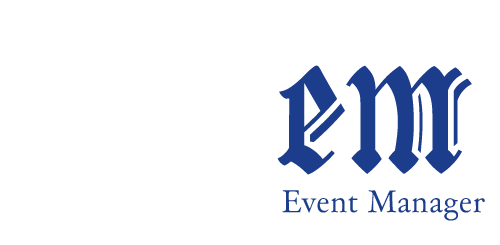
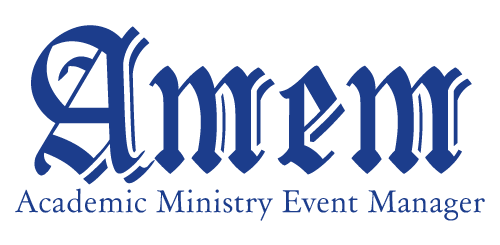
Alterações no sistema de login.

Changed region(s): [[0.06, 0.0857, 0.57, 0.7429], [0.03, 0.7714, 0.54, 0.8857]]

diff --git a/src/components/login.tsx b/src/components/login.tsx
@@ -1,18 +1,17 @@
 import React, { useState } from "react";
-import { getAuth, signInWithEmailAndPassword } from "firebase/auth";
+import { signInWithEmailAndPassword, User } from "firebase/auth";
 import { auth } from "../services/firebaseConfig";
-import { Box, Button, Input, Image } from "native-base";
+import { Box, Button, Input, Image, ScrollView, Icon, Text, Link } from "native-base";
+import { MaterialIcons } from '@expo/vector-icons';
 
-export default function login({setUser}: {setUser: any}){
+const Login = () => {
     const [email, setEmail] = useState('');
     const [senha, setSenha] = useState('');
+    const logina = auth;
+    var ano = new Date().getFullYear();
 
-    const handleLogin = () => {
-        signInWithEmailAndPassword(auth, email, senha)
-        .then((userCredential) => {
-            const user = userCredential.user;
-            setUser(user);
-        })
+    const handleLogin = async () => {
+        await signInWithEmailAndPassword(logina, email, senha)
         .catch((error) => {
             const errorMessage = error.message;
             console.log(errorMessage);
@@ -20,11 +19,17 @@ export default function login({setUser}: {setUser: any}){
     };
 
     return(
-        <Box flex={1} padding={50} backgroundColor={"#bebebe"}>
-            <Image alignSelf={"center"} source={require("./../media/AMEMLogin.png")} alt="AMEM" flex={1} />
-            <Input onChangeText={novoEmail => setEmail(novoEmail)}></Input>
-            <Input onChangeText={novaSenha => setSenha(novaSenha)}></Input>
-            <Button onPress={handleLogin}>Login</Button>
-        </Box>
+        <ScrollView contentContainerStyle={{width: "100%", height: "100%", backgroundColor: "#F2F2F2", justifyContent: "center"}}>
+            <Box padding={50} alignItems={"center"}>
+                <Image height={150} marginBottom={50} resizeMode={"contain"} source={require("./../media/AMEMLogin.png")} alt="AMEM" />
+                <Input _hover={{borderColor: "#bebebe"}} marginBottom={2} focusOutlineColor={"#bebebe"} backgroundColor={"white"} size={"xl"} w={{base: "100%", md: "30%"}} InputLeftElement={<Icon as={<MaterialIcons name="email" />} size={5} ml="3" color="muted.400" />} placeholder="Digite seu e-mail..." onChangeText={novoEmail => setEmail(novoEmail)}></Input>
+                <Input type={"password"} _hover={{borderColor: "#bebebe"}} marginBottom={25} focusOutlineColor={"#bebebe"} backgroundColor={"white"} size={"xl"} w={{base: "100%", md: "30%"}} InputLeftElement={<Icon as={<MaterialIcons name="lock" />} size={5} ml="3" color="muted.400" />} placeholder="Digite sua senha..."onChangeText={novaSenha => setSenha(novaSenha)}></Input>
+                <Button size={"lg"} marginBottom={3} w={{base: "100%", md: "30%"}} backgroundColor={"#1C3D8C"} _hover={{backgroundColor: "#043878"}} onPress={handleLogin}>Entrar</Button>
+                <Link isUnderlined={false} isExternal _text={{color: "#1C3D8C"}} marginBottom={50} href="https://www.linkedin.com/in/pedroh-silveira/" _hover={{_text: {color: "#043878"}}}>Esqueceu sua senha?</Link>
+                <Text color="#bebebe">Universidade La Salle &copy; {ano}</Text>
+            </Box>
+        </ScrollView>
     );
-};
+}
+
+export default Login;

diff --git a/App.tsx b/App.tsx
@@ -1,4 +1,4 @@
-import React, { useState } from "react";
+import React, { useEffect, useState } from "react";
 import { NativeBaseProvider } from "native-base";
 import {NavigationContainer} from '@react-navigation/native';
 import {createNativeStackNavigator} from '@react-navigation/native-stack';
@@ -7,24 +7,42 @@ import Footer from "./src/components/footer";
 import CadastrarEvento from "./src/components/cadastrarEvento";
 import ConsultarEvento from "./src/components/consultarEvento";
 import Login from "./src/components/login";
+import { onAuthStateChanged, User } from "firebase/auth";
+import { auth } from "./src/services/firebaseConfig";
 
 const Stack = createNativeStackNavigator();
+const InsideStack = createNativeStackNavigator();
+
+function InsideLayout(){
+  return (
+    <>
+      <Navbar />
+      <InsideStack.Navigator screenOptions={{headerShown: false}}>
+        <InsideStack.Screen name="Painel de Controle - AMEM" component={ConsultarEvento} />
+        <InsideStack.Screen name="Novo Evento - AMEM" component={CadastrarEvento} />
+      </InsideStack.Navigator>
+      <Footer />
+    </>
+  );
+};
 
 export default function App() {
-  const [user, setUser] = useState();
+  const [user, setUser] = useState<User | null>(null);
 
-  return !user ? <NavigationContainer>
-  <NativeBaseProvider><Login setUser={setUser} /></NativeBaseProvider>
-    </NavigationContainer> : (
-    <NavigationContainer>
-      <NativeBaseProvider>
-        <Navbar />
-        <Stack.Navigator screenOptions={{headerShown: false}}>
-          <Stack.Screen name="AMEM" component={ConsultarEvento} />
-          <Stack.Screen name="Novo Evento - AMEM" component={CadastrarEvento} />
+  useEffect(() => {
+    onAuthStateChanged(auth, (user) => {
+      console.log('user', user);
+      setUser(user);
+    });
+  }, []);
+
+  return (
+    <NativeBaseProvider>
+      <NavigationContainer>
+        <Stack.Navigator initialRouteName="Autenticação - AMEM" screenOptions={{headerShown: false}}>
+          {!user ? (<Stack.Screen name="Autenticação - AMEM" component={Login} />) : (<Stack.Screen name="AMEM" component={InsideLayout} />)}
         </Stack.Navigator>
-        <Footer />
-      </NativeBaseProvider>
-    </NavigationContainer>
+      </NavigationContainer>
+    </NativeBaseProvider>
   );
 }

diff --git a/src/components/navbar.tsx b/src/components/navbar.tsx
@@ -1,5 +1,5 @@
 import React from "react";
-import { Box, HamburgerIcon, Icon, Menu, Pressable, Text } from "native-base";
+import { Box, HamburgerIcon, Icon, Menu, Pressable, Image } from "native-base";
 import { useNavigation } from "@react-navigation/native";
 import { MaterialIcons, FontAwesome } from '@expo/vector-icons';
 
@@ -13,10 +13,10 @@ export default function Navbar(){
                             <HamburgerIcon size={5} color="white" />
                         </Pressable>;
                     }}>
-                        <Menu.Item onPress={() => navigation.navigate("AMEM" as never)}><Icon color="#000" as={FontAwesome} name="home" /> Painel de Controle</Menu.Item>
+                        <Menu.Item onPress={() => navigation.navigate("Painel de Controle - AMEM" as never)}><Icon color="#000" as={FontAwesome} name="home" /> Painel de Controle</Menu.Item>
                         <Menu.Item onPress={() => navigation.navigate("Novo Evento - AMEM" as never)}><Icon color="#000" as={FontAwesome} name="gear" /> Configurações</Menu.Item>
                     </Menu>
-                <Text bold fontSize="lg" marginLeft={5} color={"white"}>AMEM</Text>
+                    <Image height={30} width={75} marginLeft={5} resizeMode={"contain"} source={require("./../media/AMEM.png")} alt="AMEM" />
             </Box>
             <Icon as={<MaterialIcons name={"notifications"} />} size={6} color="#bebebe" />
         </Box>

diff --git a/src/components/consultarEvento.tsx b/src/components/consultarEvento.tsx
@@ -1,15 +1,10 @@
-import { Box, Icon, ScrollView, Text } from "native-base";
-import { FontAwesome } from '@expo/vector-icons';
+import { Box, ScrollView, Text } from "native-base";
 import React from "react";
 
-export default function ConsultarEvento(){
+export default function ConsultarEvento({navigation}: any){
     return(
         <ScrollView contentContainerStyle={{width:'100%'}}>
-            <Box margin={25} flexDirection={"row"} alignItems={"center"}>
-                <Icon mr={1} color="#000" as={FontAwesome} name="home" />
-                <Text>Painel de Controle</Text>
-            </Box>
-            <Box padding={50}>
+            <Box padding={50} flex={1}>
                 <Text textAlign={"left"} bold fontSize={"3xl"}>Painel de Controle</Text>
             </Box>
         </ScrollView>
